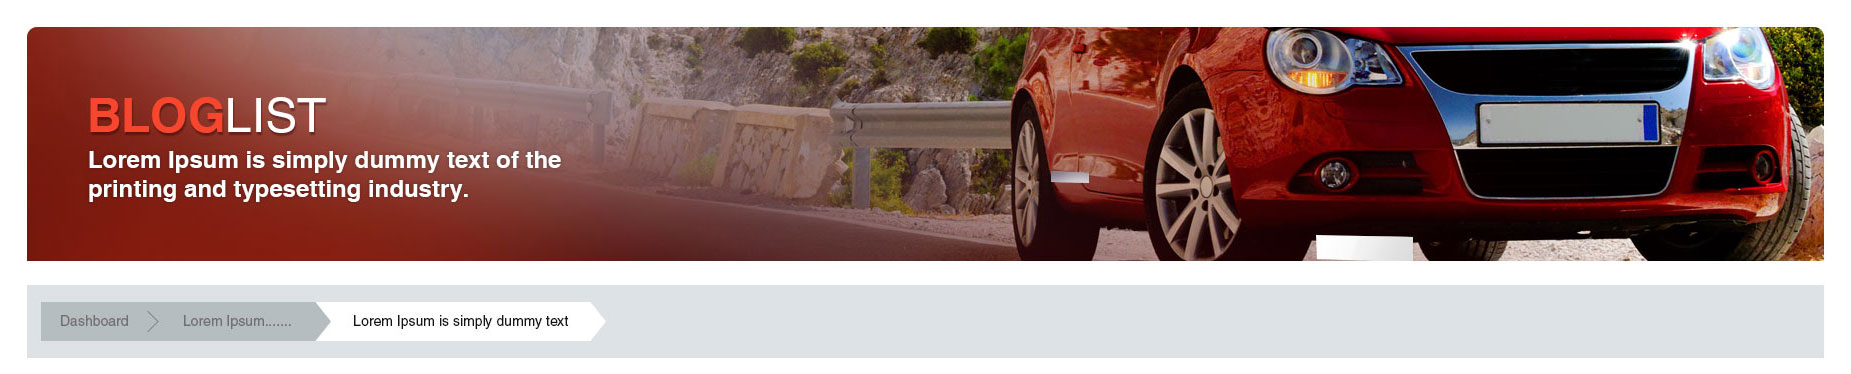
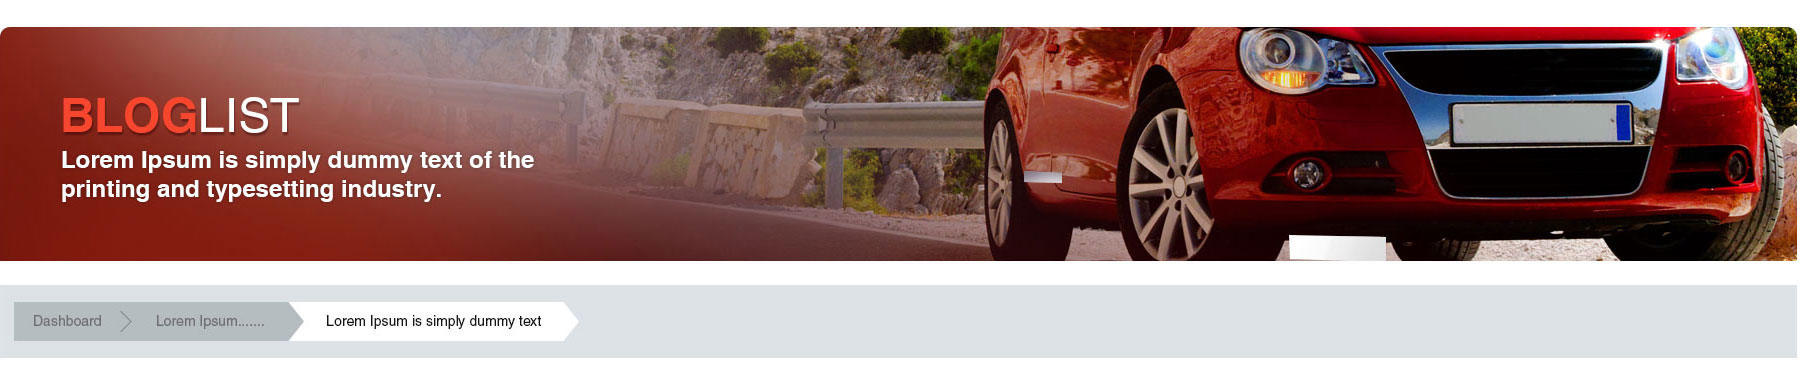
koushik

diff --git a/src/app/component/backend/blogs/add-edit-blogs/add-edit-blogs.component.html b/src/app/component/backend/blogs/add-edit-blogs/add-edit-blogs.component.html
@@ -2,14 +2,15 @@
   <app-header></app-header>
       <div class="main-content-wrap">
         <mat-card class="generalcls blog" style="padding: 0 !important;">  
-        <span class="searchblock">
-            <span class="searchblockwrapper">
-                <span>
-                    <h2>ADD BLOG MANAGEMENT DATA</h2>
-                </span>            
+            <img src="../../../../assets/images/blogmang-dashboard-img1.jpg" style="width: 100%; display: block; margin: 0; padding: 0;">
+            <span class="searchblock">
+                <span class="searchblockwrapper">
+                    <span>
+                        <h2>ADD BLOG MANAGEMENT DATA</h2>
+                    </span>            
+                </span>
             </span>
-        </span>
-                <lib-addedit-blogmanagement class="lib-addedit-blogmanagement"
+            <lib-addedit-blogmanagement class="lib-addedit-blogmanagement"
                 [serverUrl]="server"
                 [addEndpoint]="addUrl" 
                 [getDataEndpoint]="getDataUrl"
@@ -18,8 +19,8 @@
                 [imageUpload]="configData"
                 [fileUpload]="configFileData"  
                 [action]="action">
-                </lib-addedit-blogmanagement>
-                </mat-card>
+            </lib-addedit-blogmanagement>
+        </mat-card>
       </div> 
   </div>
 <app-footer></app-footer>

diff --git a/src/app/component/backend/blogs/add-edit-blogcat/add-edit-blogcat.component.html b/src/app/component/backend/blogs/add-edit-blogcat/add-edit-blogcat.component.html
@@ -2,14 +2,15 @@
   <app-header></app-header>
       <div class="main-content-wrap">
         <mat-card class="generalcls blog" style="padding: 0 !important;">  
-        <span class="searchblock">
-            <span class="searchblockwrapper">
-                <span>
-                    <h2>ADD BLOG Category</h2>
-                </span>            
-            </span>
-        </span>
-        <lib-add-blog [config]="configAddEdit" class="lib-addedit-blogcat"></lib-add-blog>
+          <img src="../../../../assets/images/blogmang-dashboard-img1.jpg" style="width: 100%; display: block; margin: 0; padding: 0;">
+          <span class="searchblock">
+              <span class="searchblockwrapper">
+                  <span>
+                      <h2>ADD BLOG Category</h2>
+                  </span>            
+              </span>
+          </span>
+          <lib-add-blog [config]="configAddEdit" class="lib-addedit-blogcat"></lib-add-blog>
         </mat-card>
       </div> 
   </div>

diff --git a/src/styles.css b/src/styles.css
@@ -330,6 +330,7 @@ body { margin: 0; font-family: Roboto, "Helvetica Neue", sans-serif; }
   .tablediv .formfilterdiv mat-toolbar-row [style] {
     justify-content: inherit !important;
 }
+.tablediv .searchbar .mat-form-field .mat-form-field-prefix, .tablediv .searchbar .mat-form-field .mat-form-field-suffix{display: flex; align-items: center;}
 
 .mat-form-field-appearance-legacy .mat-form-field-underline{
     height:inherit !important;
@@ -349,7 +350,6 @@ body { margin: 0; font-family: Roboto, "Helvetica Neue", sans-serif; }
     padding: 1em !important;
     background: #fff;
 }
-.tablediv .searchbar .mat-form-field .mat-form-field-prefix, .tablediv .searchbar .mat-form-field .mat-form-field-suffix{display: flex; align-items: center;}
 
 .formspan .form-field-span, .formspan .mat-form-field {
     width: 100% !important;
